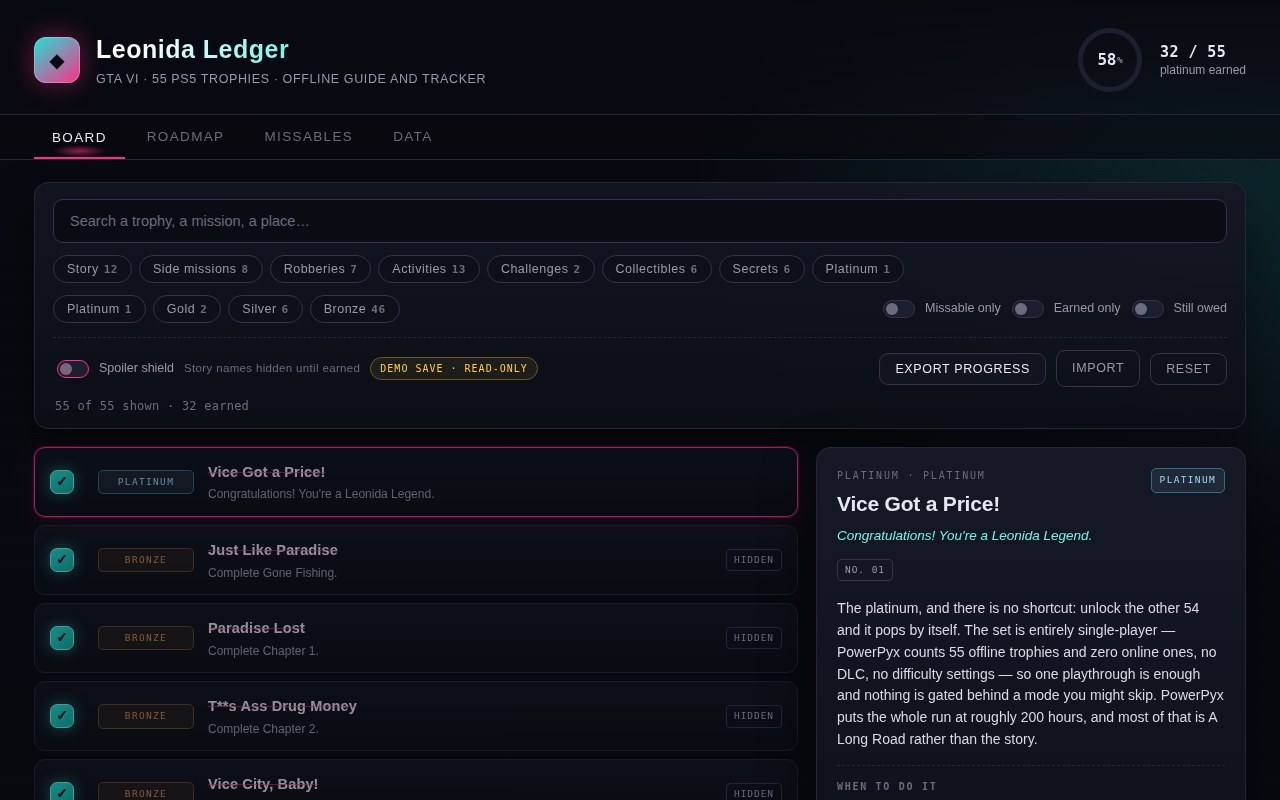
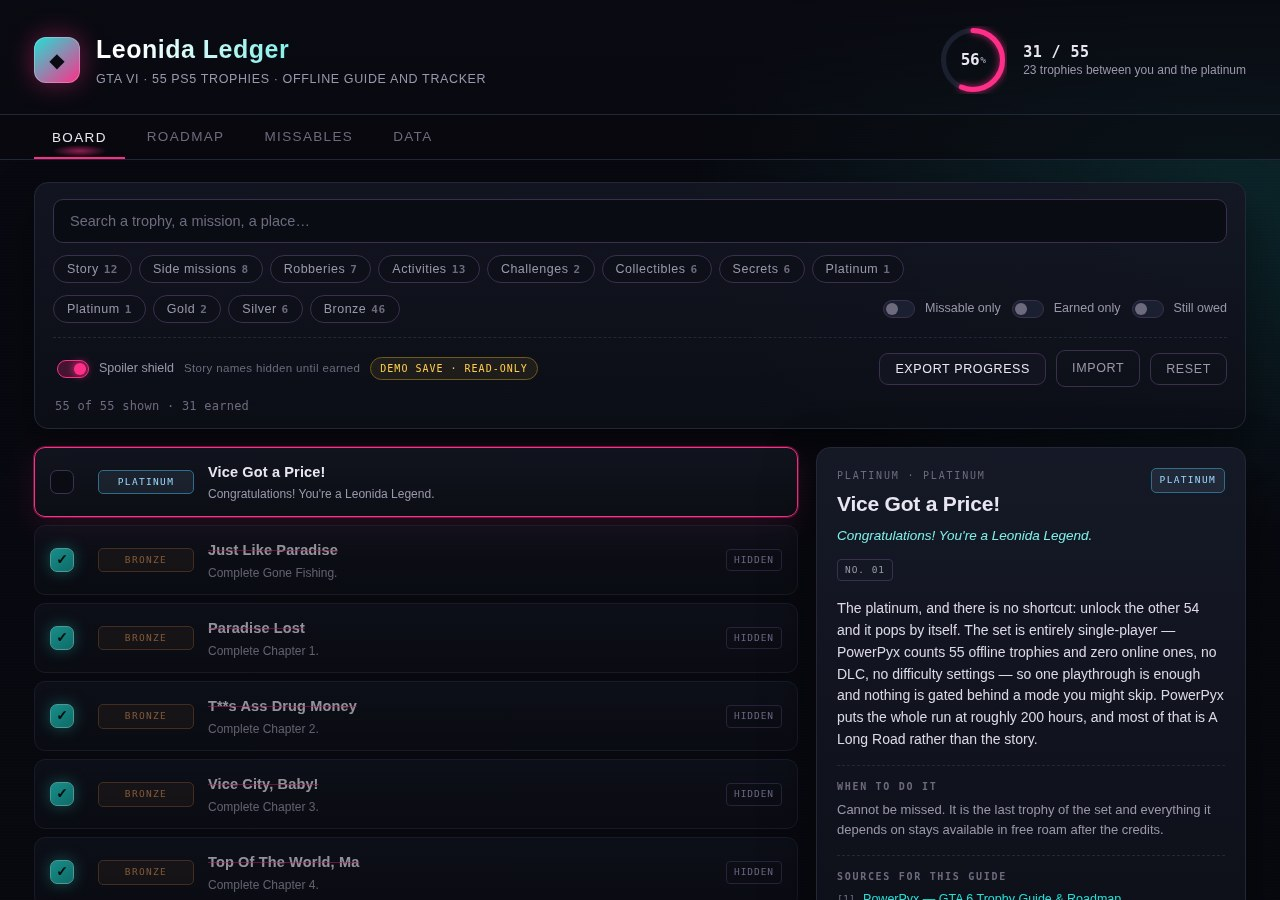
gta6-trophy-guide-01: full guide

diff --git a/app/app.js b/app/app.js
@@ -40,7 +40,7 @@
      in it without inheriting somebody else's ticks. It is read-only: with ?demo=1 loaded, save()
      does nothing and the toolbar says so. */
   var DEMO_EARNED = [
-    "vice-got-a-price", "just-like-paradise", "paradise-lost", "t-stars-ass-drug-money",
+    "just-like-paradise", "paradise-lost", "t-stars-ass-drug-money",
     "vice-city-baby", "top-of-the-world-ma", "you-gotta-know-when-to-get-off", "trust",
     "break-the-bank", "family-matters", "dwnfall", "hi-jacked", "snow-storm",
     "retail-therapy", "sneakthief", "lets-go-bowling", "dime-on-the-dollar",
@@ -488,7 +488,7 @@
     if (state.demo) {
       $("savePreview").textContent = JSON.stringify({
         demo: true,
-        note: "This page was opened with ?demo=1, so the 32/55 save you see is held in memory and never written to this browser.",
+        note: "This page was opened with ?demo=1, so the 31/55 save you see is held in memory and never written to this browser.",
         earned: Object.keys(state.earned).sort()
       }, null, 1);
       return;

diff --git a/README.md b/README.md
@@ -77,12 +77,13 @@ Where two sources disagreed — and they do, on whether Kenton's chain expires a
 
 Dark neon, and unapologetically so: near-black `#08080c`, magenta `#ff2e88`, cyan `#22e0d6`. The reference points are the in-game HUD and a printed ledger — thin rules, tabular numbers, a magnifying-glass progress ring drawn as SVG rather than a chart library. System font stack only, zero webfonts, zero image assets. Everything you see is CSS and inline SVG, so the whole app is three files and about 90 KB, and there are no Rockstar assets anywhere near it.
 
-The screenshots in `screenshots/` are real headless-Chrome renders of the running app, not mockups. They were taken with `?demo=1` — a read-only sample save that lives in memory and never touches your `localStorage`, so a screenshot can show 32 trophies ticked without anyone inheriting someone else's progress:
+The screenshots in `screenshots/` are real headless-Chrome renders of the running app, not mockups. They were taken with `?demo=1` — a read-only sample save that lives in memory and never touches your `localStorage`, so a screenshot can show 31 trophies ticked without anyone inheriting someone else's progress:
 
 ```
-http://localhost:4173/?demo=1#/board
-http://localhost:4173/?demo=1#/t/cunning-stunts
-http://localhost:4173/?demo=1#/roadmap
+http://localhost:4173/?demo=1#/t/vice-got-a-price   the board + platinum write-up
+http://localhost:4173/?demo=1#/t/cunning-stunts     a trophy page
+http://localhost:4173/?demo=1#/roadmap             the seven stages
+http://localhost:4173/?demo=1#/t/capital-offense   the shield, mid-veil
 ```
 
 ## Layout
